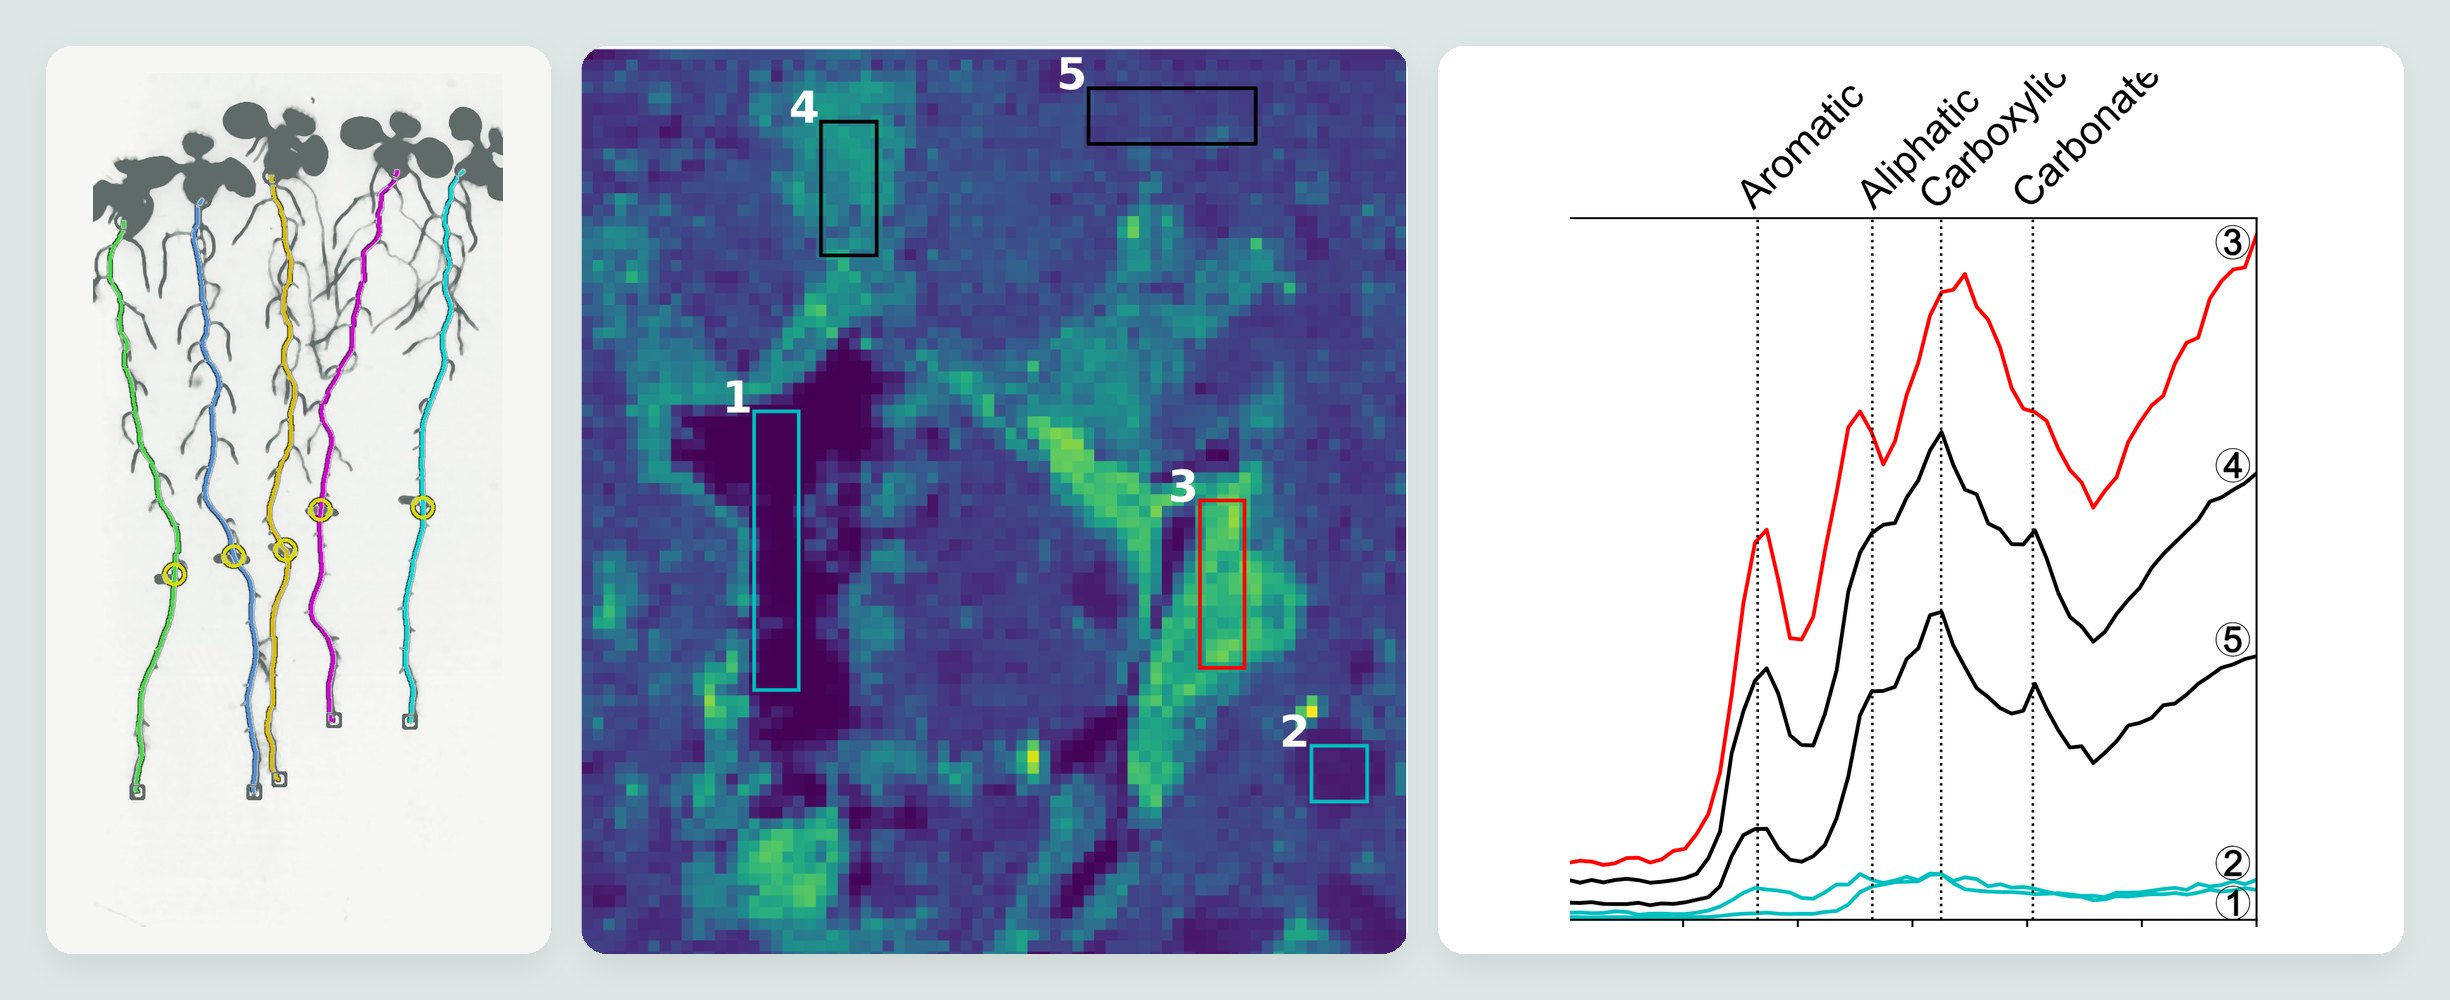
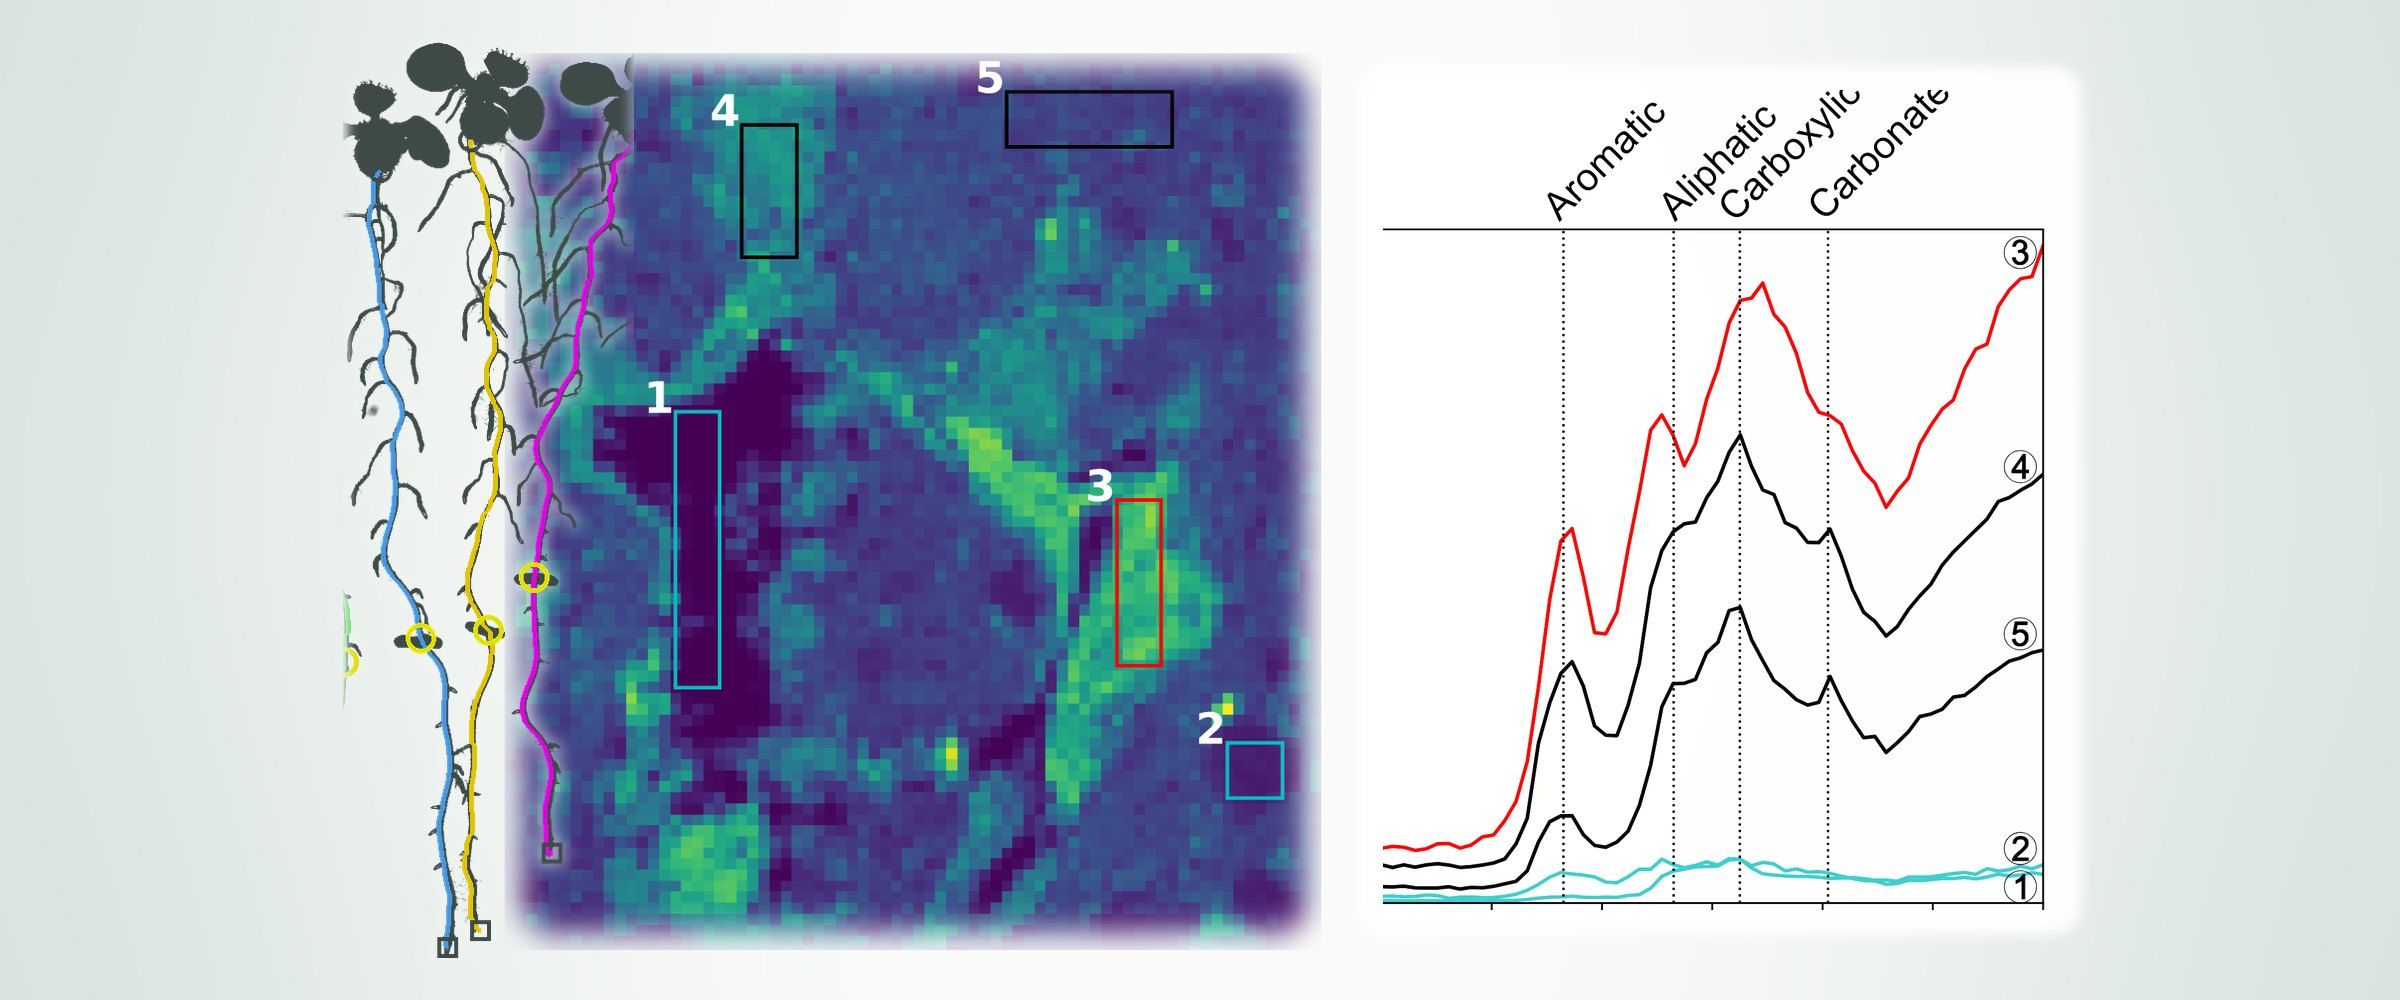
Research: opening question on its own line; layered project 2 image
Project 2 image: three Arabidopsis seedlings (isolated from the plate) in
front of the STXM carbon map, with the carbon spectra beside it, on the same
framed backdrop as project 1.

diff --git a/assets/site.css b/assets/site.css
@@ -216,7 +216,7 @@ p { margin: 0; text-wrap: pretty; }
 .project-text { display: flex; flex-direction: column; gap: 10px; }
 .project-text h2 { font-size: clamp(22px, 2vw, 28px); line-height: 1.18; letter-spacing: -0.02em; }
 .project-text p { color: var(--ink-2); }
-.summary-q { color: var(--ink); font-weight: 500; }
+.summary-q { display: block; margin-bottom: 6px; color: var(--ink); font-weight: 500; }
 @media (max-width: 760px) {
   .project-list { gap: 36px; }
   .project-row { grid-template-columns: 1fr; gap: 16px; }
